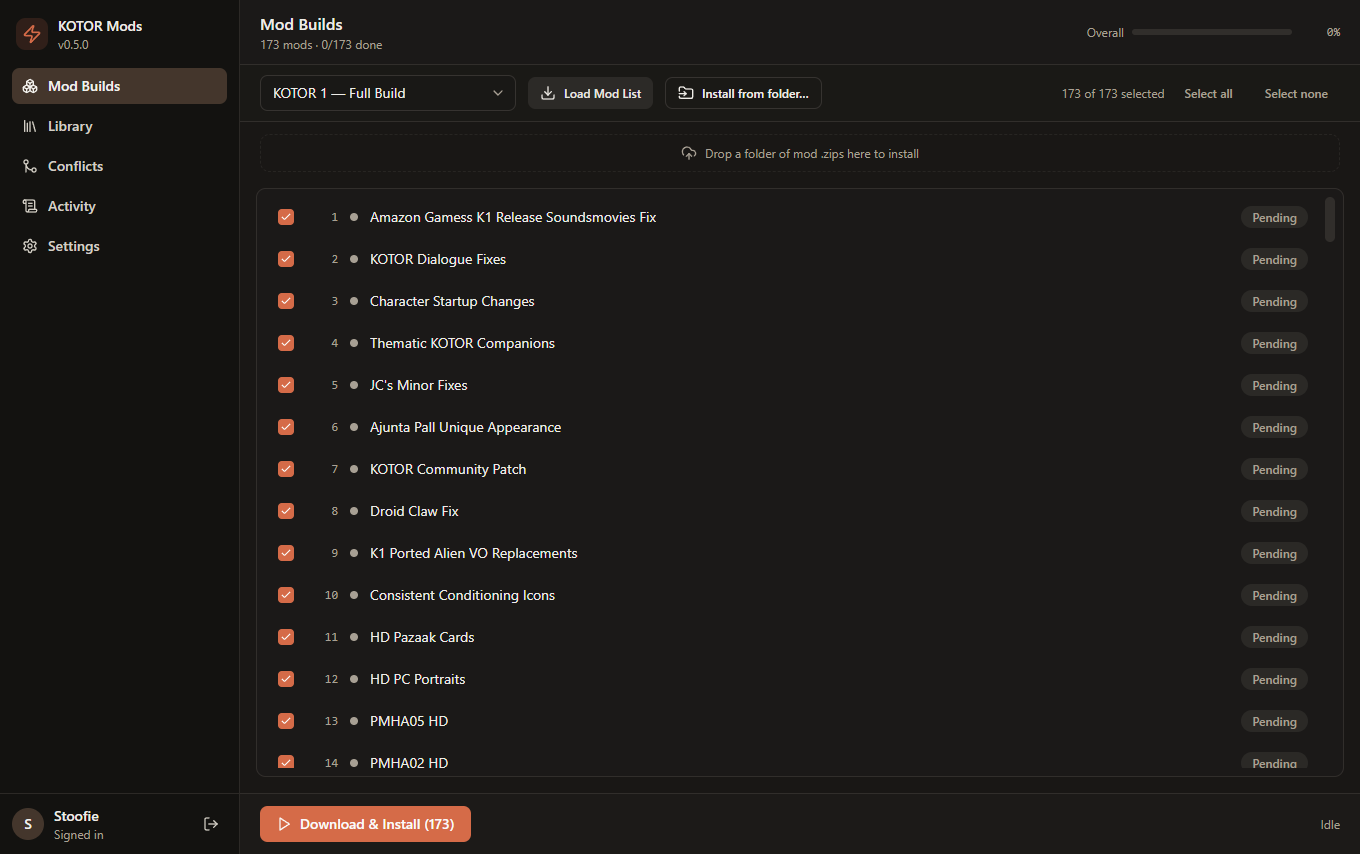
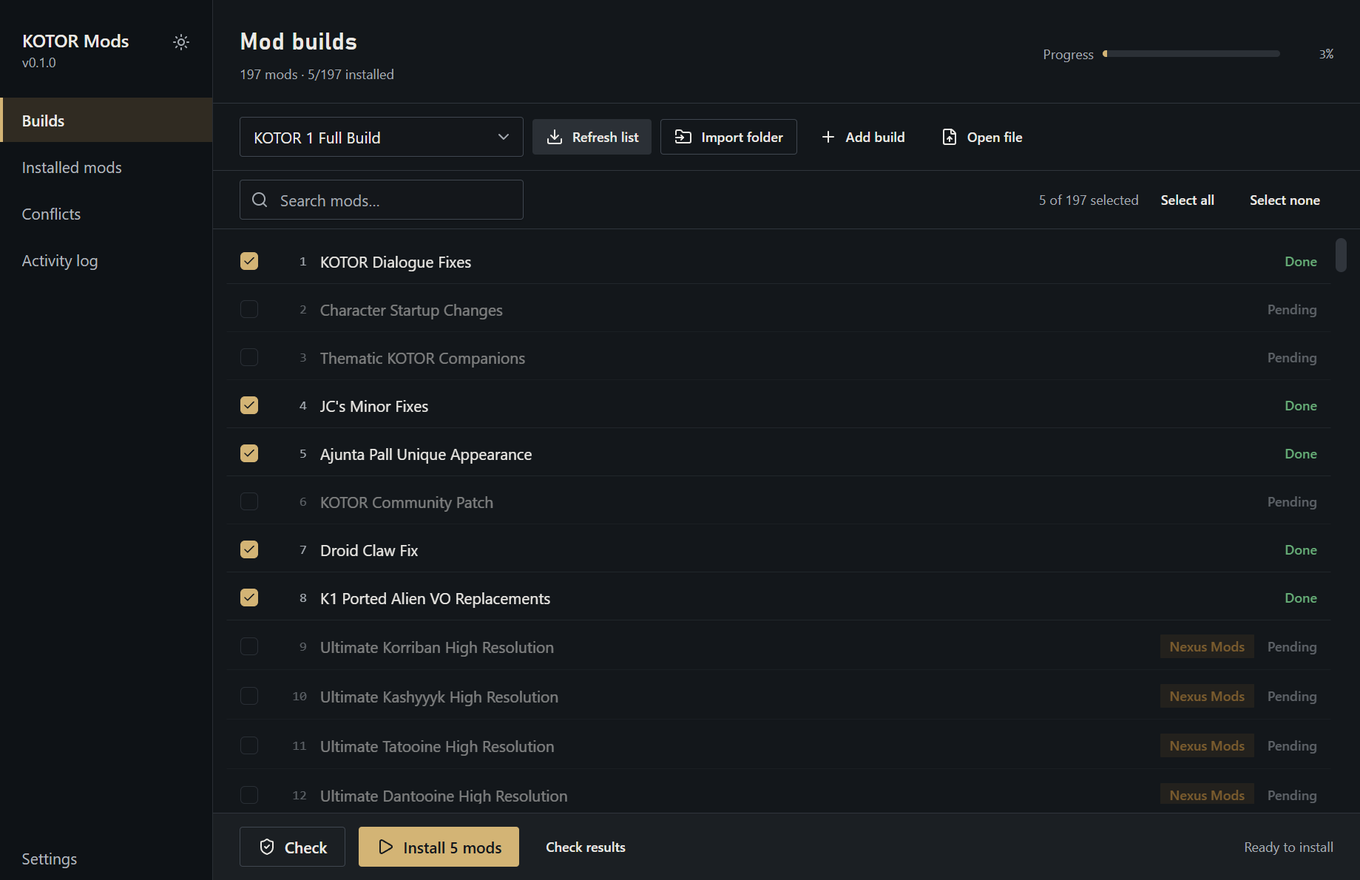
Record the gallery and screenshots from the desktop app
The tour and search clips and the screen captures now come from the desktop
app running on the ModSync engine, after a real five-mod install on a test
copy of KOTOR. Adds Installed mods, Conflicts and Settings captures for the
Desktop app page.

diff --git a/site/index.html b/site/index.html
@@ -44,15 +44,15 @@
 
     <section class="mp-gallery" aria-label="Screenshots">
       <figure class="mp-stage">
-        <img id="stage-img" src="assets/media/tour.gif" width="1000" height="628" alt="A tour of the desktop app moving through the build, library and settings screens" />
+        <img id="stage-img" src="assets/media/tour.gif" width="1000" height="647" alt="A tour of the desktop app: a mod's details, then the installed mods, conflicts, activity log and settings screens" />
       </figure>
       <ul class="mp-thumbs">
-        <li><a href="assets/media/tour.gif" data-stage aria-current="true" data-alt="A tour of the desktop app moving through the build, library and settings screens"><img src="assets/media/tour.gif" alt="" width="1000" height="628" loading="lazy" /><span>Tour</span></a></li>
-        <li><a href="assets/media/library-search.gif" data-stage data-alt="Searching the list of installed mods"><img src="assets/media/library-search.gif" alt="" width="1000" height="628" loading="lazy" /><span>Search</span></a></li>
-        <li><a href="assets/media/01-builds.png" data-stage data-alt="A full KOTOR 1 build loaded, with every mod ticked and ready to install"><img src="assets/media/01-builds.png" alt="" width="1360" height="854" loading="lazy" /><span>Mod build</span></a></li>
-        <li><a href="assets/media/06-activity.png" data-stage data-alt="The activity log while mods install"><img src="assets/media/06-activity.png" alt="" width="1360" height="854" loading="lazy" /><span>Activity</span></a></li>
+        <li><a href="assets/media/tour.gif" data-stage aria-current="true" data-alt="A tour of the desktop app: a mod's details, then the installed mods, conflicts, activity log and settings screens"><img src="assets/media/tour.gif" alt="" width="1000" height="647" loading="lazy" /><span>Tour</span></a></li>
+        <li><a href="assets/media/library-search.gif" data-stage data-alt="Searching the list of installed mods"><img src="assets/media/library-search.gif" alt="" width="1000" height="647" loading="lazy" /><span>Search</span></a></li>
+        <li><a href="assets/media/01-builds.png" data-stage data-alt="A KOTOR 1 build loaded, with the mods just installed marked Done"><img src="assets/media/01-builds.png" alt="" width="1360" height="880" loading="lazy" /><span>Mod build</span></a></li>
+        <li><a href="assets/media/06-activity.png" data-stage data-alt="The activity log after a check and an install"><img src="assets/media/06-activity.png" alt="" width="1360" height="880" loading="lazy" /><span>Activity</span></a></li>
       </ul>
-      <p class="mp-caption">Desktop app preview.</p>
+      <p class="mp-caption">The desktop app, recorded on a test copy of KOTOR.</p>
     </section>
 
     <aside class="mp-side" aria-label="Download and details">
@@ -72,6 +72,7 @@
       <nav class="card mp-links" aria-label="Project links">
         <a data-repo="" href="https://github.com/kolto-labs/ModSync.rs">Source code</a>
         <a href="getting-started.html">Getting started</a>
+        <a href="desktop.html">Desktop app</a>
         <a href="status.html">Features and roadmap</a>
         <a data-repo="/issues" href="https://github.com/kolto-labs/ModSync.rs/issues">Report a problem</a>
       </nav>
